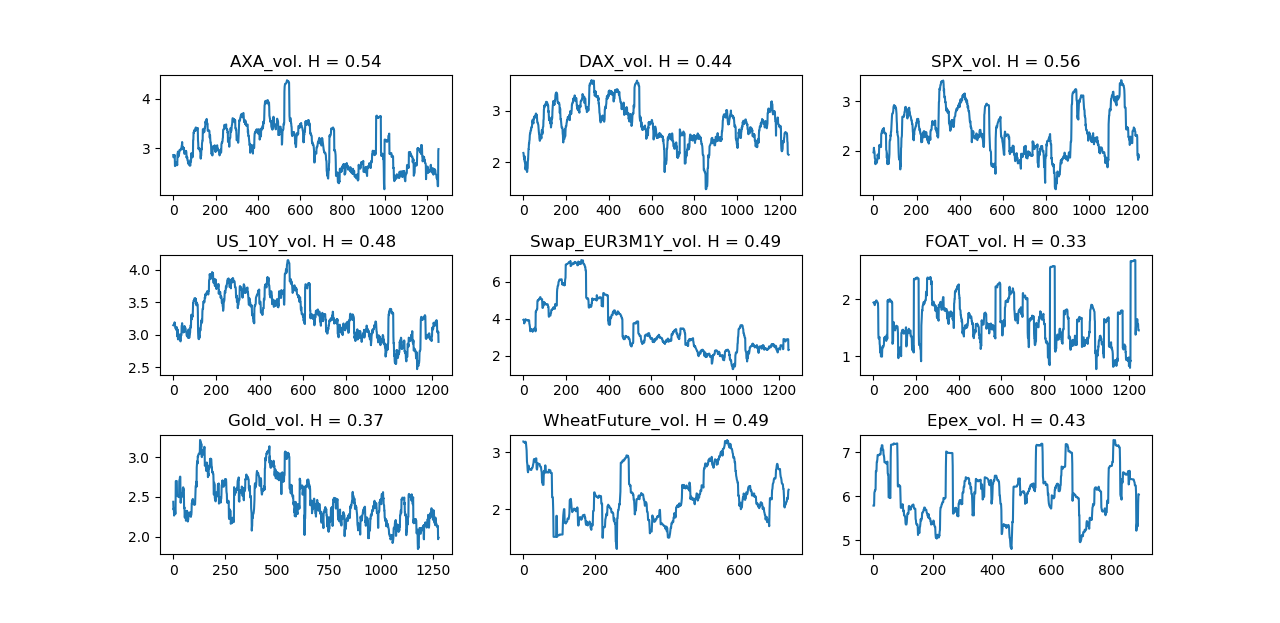
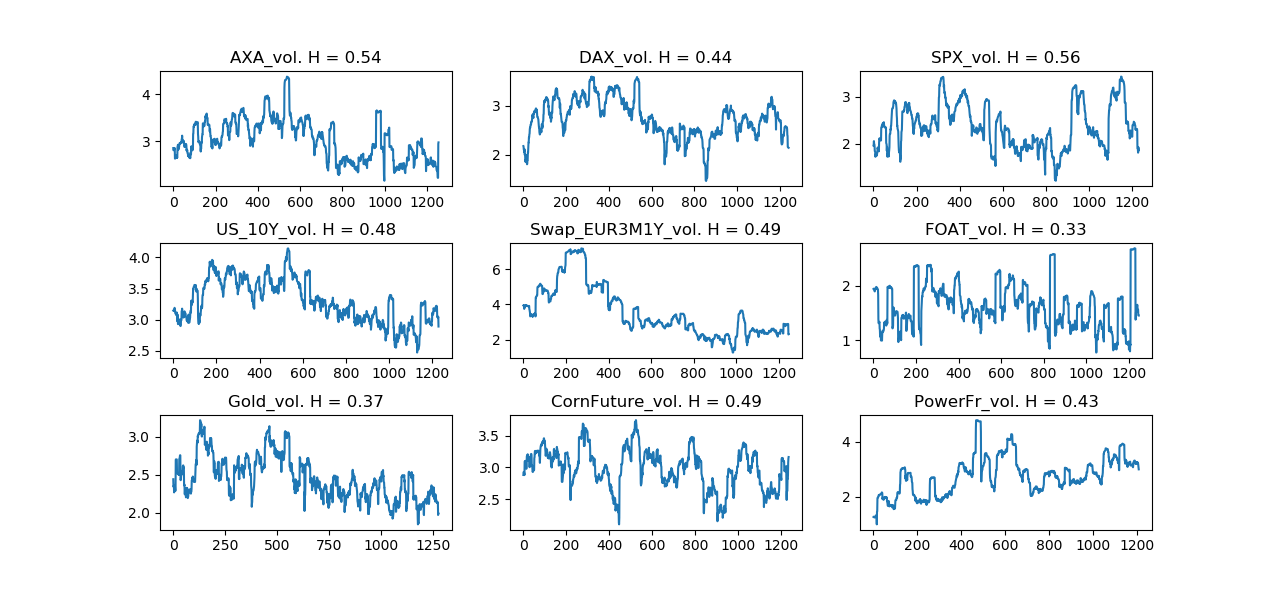
Replace commodities vol plots
Replace Wheat by Corn and Epex Germany by France Electricity because more data available

diff --git a/Graphiques Python/Code/Simulation_fBM.py b/Graphiques Python/Code/Simulation_fBM.py
@@ -144,7 +144,7 @@ def plot_fBM3(H,T,Nmax,n):
 
 def plot_log_vol():
     os.chdir('C:\\Users\lroussel\Documents\Données Reuters') 
-    data_ = ['AXA_vol','DAX_vol','SPX_vol','US_10Y_vol','Swap_EUR3M1Y_vol','FOAT_vol','Gold_vol','WheatFuture_vol','Epex_vol']
+    data_ = ['AXA_vol','DAX_vol','SPX_vol','US_10Y_vol','Swap_EUR3M1Y_vol','FOAT_vol','Gold_vol','CornFuture_vol','PowerFr_vol']
     H = [0.54,0.44,0.56,0.48,0.49,0.33,0.37,0.49,0.43] # Ces approximations de H ont été trouvées avec le code "Graphiques_python.py" selon la
     k_ = len(data_)                                    # méthode habituelle (régressions linéaires)
     df = []
@@ -162,7 +162,7 @@ def plot_log_vol():
         plt.plot(df[i])
     plt.show()
 
-#plot_log_vol()
+plot_log_vol()
 
 
 
